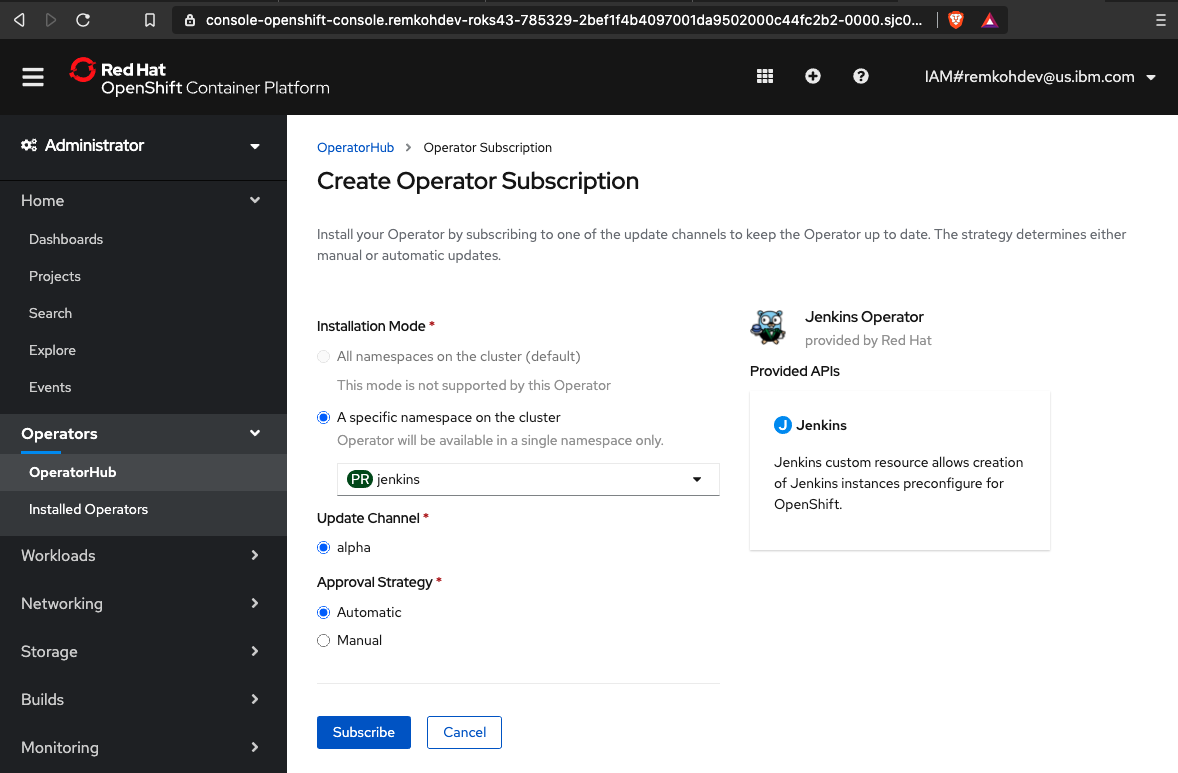
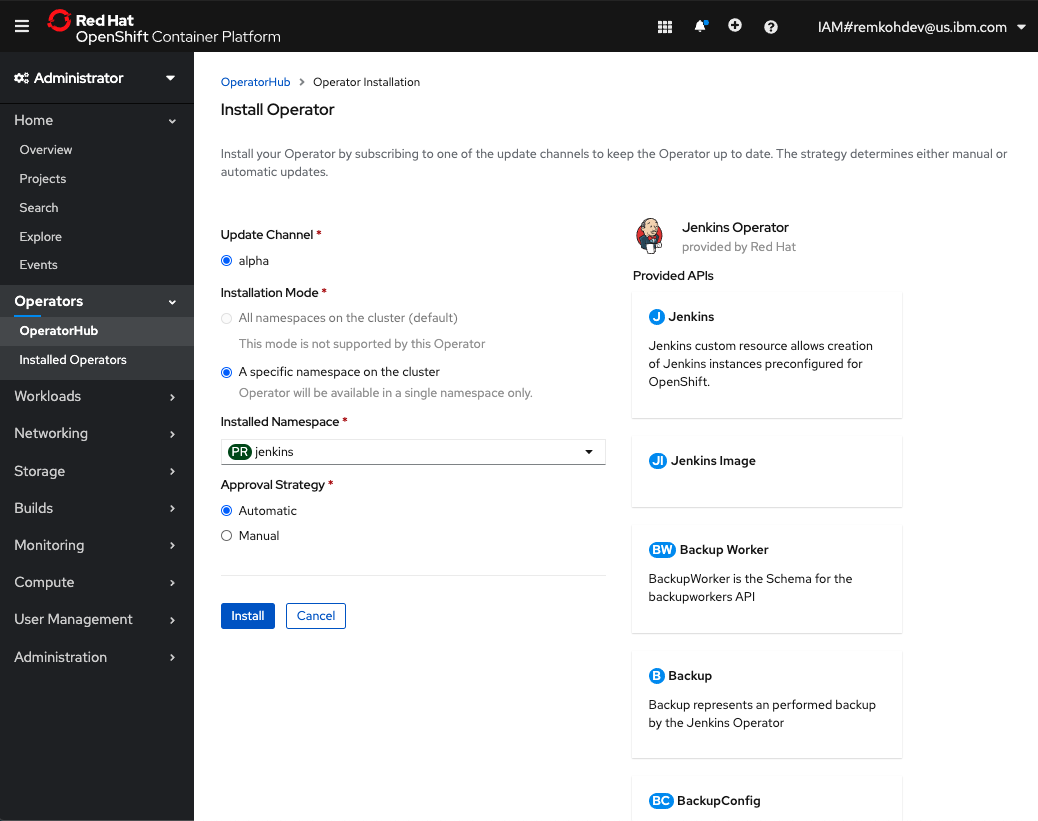
update to OCP45 and fix minor issues

diff --git a/docs/JENKINS.md b/docs/JENKINS.md
@@ -1,7 +1,7 @@
 ## Jenkins
 
 Pre-requirements:
-- OpenShift 4.3 cluster
+- OpenShift 4.x cluster
 
 1. From the IBM Cloud cluster dashboard, click the `OpenShift web console` button,
 
@@ -37,7 +37,7 @@ Pre-requirements:
 
     ![](images/jenkins/operatorhub-jenkins.png)
 
-10. Select the `Jenkins Operator` by `Community`, `provided by Red Hat`,
+10. Select the `Jenkins Operator` `provided by Red Hat`, labeled `community`,
 11. Click `Continue` to `Show Community Operator`,
 
     ![](images/jenkins/show-community-operator.png)
@@ -46,11 +46,11 @@ Pre-requirements:
 
     ![](images/jenkins/install-jenkins-operator.png)
 
-13. In the `Create Operator Subscription` window, choose `A specific namespace in the cluster` and select the project `jenkins`, select `alpha` under `Update Channel`, select `Automatic` under `Approval Strategy`,
+13. In the `Install Operator` window, in the `Update Channel` section, select `alpha` under `Update Channel`, choose `A specific namespace in the cluster` and in the `Installed Namespace` section, select the project `jenkins` from the dropdown, select `Automatic` under `Approval Strategy`,
 
     ![](images/jenkins/jenkins-operator-config.png)
 
-14. Click `Subscribe`,
+14. Click `Install`,
 15. The `Installed Operators` page will load, wait until the `Jenkins Operator` has a `Status` of `Succeeded`,
 
     ![](images/jenkins/installed-operator-succeeded.png)
@@ -60,7 +60,7 @@ Pre-requirements:
     ![](images/jenkins/jenkins-operator-details.png)
 
 17. In the `Provided APIs` section, click the `Create Instance` link in the `Jenkins` panel,
-18. In the `Create Jenkins` YAML definition for the new Jenkins instance, change the `metadata.name` to `my-jenkins`, accept all other specifications,
+18. In the `Create Jenkins` window, select `Form View` or `YAML View` for the new Jenkins instance, change the `metadata.name` to `my-jenkins`, accept all other specifications,
 
     ![](images/jenkins/jenkins-yaml.png)
 
@@ -77,19 +77,21 @@ Pre-requirements:
     ![](images/jenkins/jenkins-route.png)
 
 22. A route to your Jenkins instance opens in a new browser window or tab,
-23. Click `Log in with OpenShift`,
+23. If your page loads with a `Application is not available` warning, your Jenkins instance is still being deployed and you need to wait a little longer, keep trying until the Jenkins page loads,
+24. You can see the progress of the Jenkins startup, by browsing to the Pods of the Deployment of the Jenkins instance that is being created,
+25. Click `Log in with OpenShift`,
 
-    ![](images/jenkins/login-with-openshift
+    ![](images/jenkins/login-with-openshift.png)
 
-24. Click `Allow selected permissions`,
+26. Click `Allow selected permissions`,
 
     ![OpenShift Jenkins Allow selected permissions](images/jenkins/jenkins-login-set-permissions.png)
 
-25. Welcome to Jenkins !
+27. Welcome to Jenkins !
 
     ![](images/jenkins/welcome-to-jenkins.png)
 
-26. Configure Jenkins
+28. Configure Jenkins
     1. Go to Jenkins > Manage Jenkins > Global Tool Configuration,
     2. Go to the `Maven` section, 
     3. Click `Maven Installations`,
